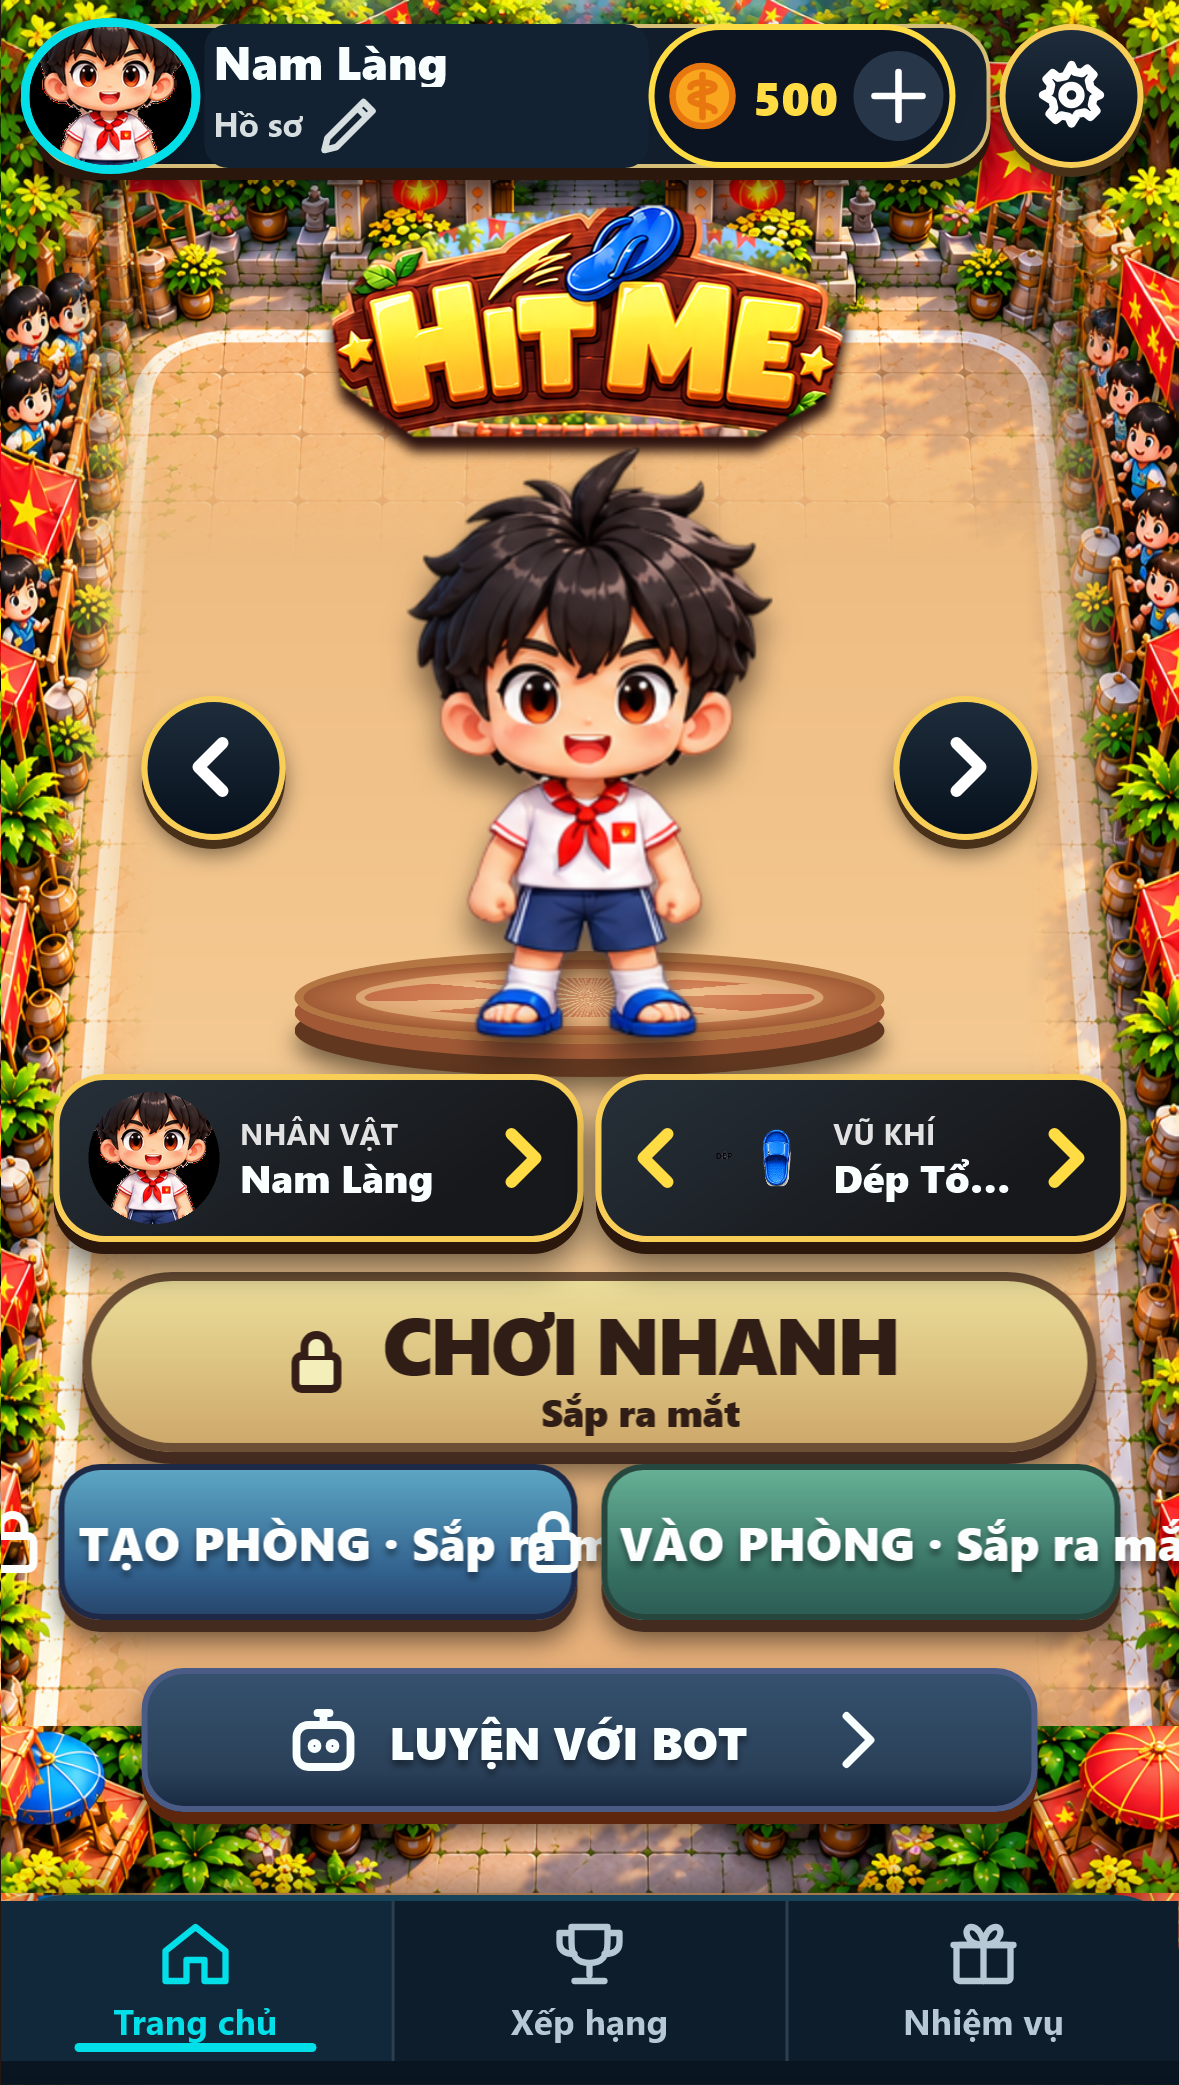
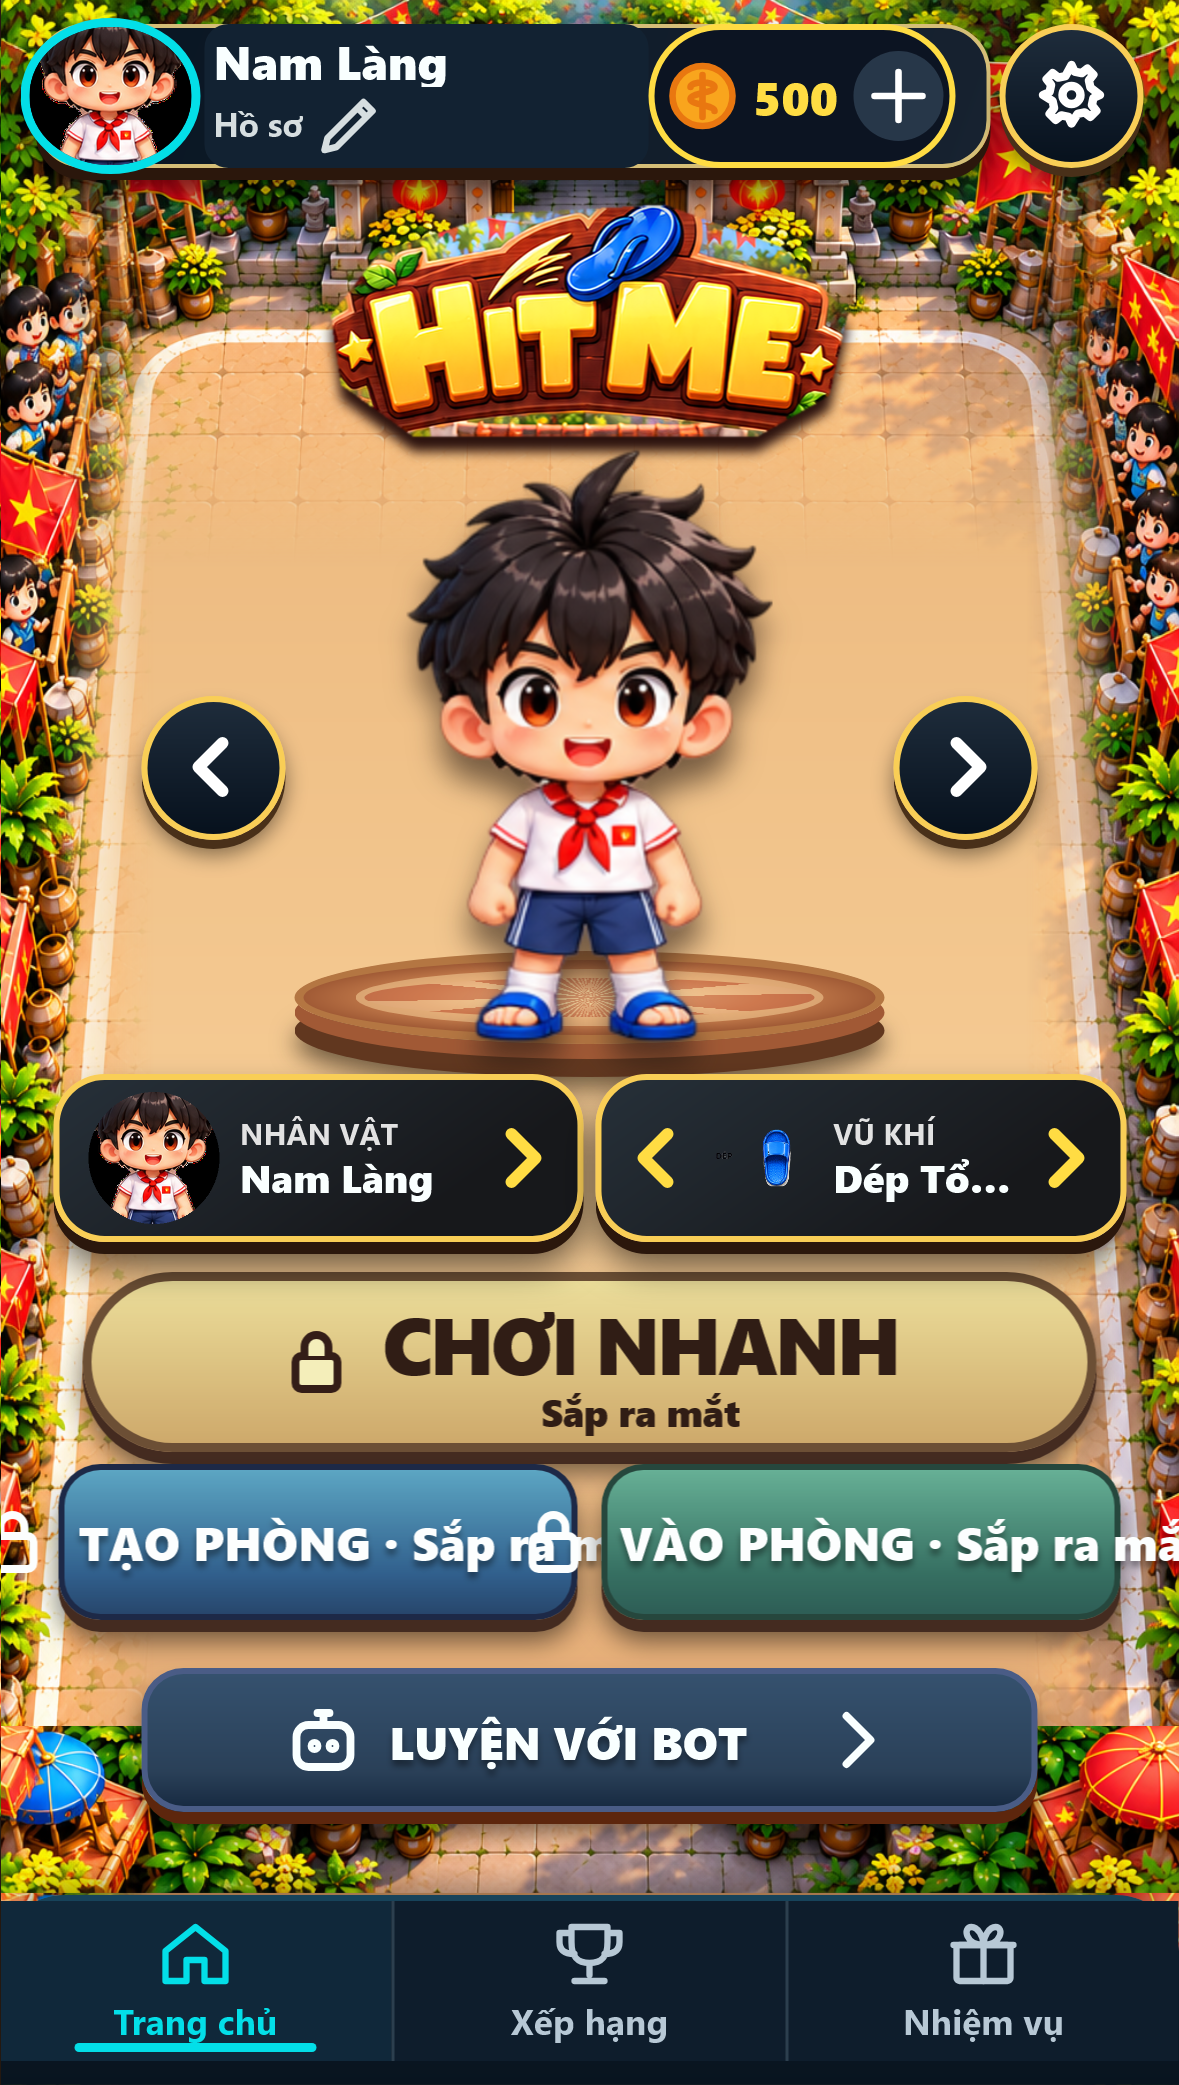
fix: keep gated Home buttons within mobile width

Changed region(s): [[0.3664, 0.2182, 0.6412, 0.4988], [0.3359, 0.2806, 0.3664, 0.3118]]

diff --git a/web-ui/app.js b/web-ui/app.js
@@ -139,8 +139,8 @@ function home() {
     <button class="selection-card character-card" data-name="character-card" data-action="character"><img src="${characterImage('head')}" alt=""><span><small>${t('character')}</small><b>${safeText(catalogTitle(character))}</b></span>${icon('chevron')}</button>
     <button class="selection-card weapon-card" data-name="weapon-card" data-action="weapon">${icon('chevron','reverse')}<img src="${safeText(currentWeapon().icon)}" alt=""><span><small>${t('weapon')}</small><b>${safeText(catalogTitle(currentWeapon()))}</b></span>${icon('chevron')}</button>
     <button class="cta quick ${onlineEnabled?'':'coming-soon'}" data-name="quick-play" data-action="${onlineEnabled?'quick':'online-locked'}">${onlineEnabled?icon('play'):icon('lock')}<span><strong>${t('quickPlay')}</strong><small>${onlineEnabled?t('quickPlayDetail'):t('comingSoon')}</small></span></button>
-    <button class="cta blue ${onlineEnabled?'':'coming-soon'}" data-name="create-room" data-action="${onlineEnabled?'create':'online-locked'}">${onlineEnabled?icon('people'):icon('lock')}<strong>${t('createRoom')} ${onlineEnabled?'':`· ${t('comingSoon')}`}</strong></button>
-    <button class="cta green ${onlineEnabled?'':'coming-soon'}" data-name="join-room" data-action="${onlineEnabled?'join':'online-locked'}">${onlineEnabled?icon('people'):icon('lock')}<strong>${t('joinRoom')} ${onlineEnabled?'':`· ${t('comingSoon')}`}</strong></button>
+    <button class="cta blue ${onlineEnabled?'':'coming-soon'}" data-name="create-room" data-action="${onlineEnabled?'create':'online-locked'}">${onlineEnabled?icon('people'):icon('lock')}<span><strong>${t('createRoom')}</strong>${onlineEnabled?'':`<small>${t('comingSoon')}</small>`}</span></button>
+    <button class="cta green ${onlineEnabled?'':'coming-soon'}" data-name="join-room" data-action="${onlineEnabled?'join':'online-locked'}">${onlineEnabled?icon('people'):icon('lock')}<span><strong>${t('joinRoom')}</strong>${onlineEnabled?'':`<small>${t('comingSoon')}</small>`}</span></button>
     <button class="cta navy practice" data-name="practice" data-action="practice">${icon('robot')}<strong>${t('practice')}</strong>${icon('chevron')}</button>
     <nav class="tabs" data-name="tabs" aria-label="Điều hướng chính">
       <button class="active" data-action="home">${icon('home')}<span>${t('home')}</span></button>

diff --git a/web-ui/dist/app.js b/web-ui/dist/app.js
@@ -139,8 +139,8 @@ function home() {
     <button class="selection-card character-card" data-name="character-card" data-action="character"><img src="${characterImage('head')}" alt=""><span><small>${t('character')}</small><b>${safeText(catalogTitle(character))}</b></span>${icon('chevron')}</button>
     <button class="selection-card weapon-card" data-name="weapon-card" data-action="weapon">${icon('chevron','reverse')}<img src="${safeText(currentWeapon().icon)}" alt=""><span><small>${t('weapon')}</small><b>${safeText(catalogTitle(currentWeapon()))}</b></span>${icon('chevron')}</button>
     <button class="cta quick ${onlineEnabled?'':'coming-soon'}" data-name="quick-play" data-action="${onlineEnabled?'quick':'online-locked'}">${onlineEnabled?icon('play'):icon('lock')}<span><strong>${t('quickPlay')}</strong><small>${onlineEnabled?t('quickPlayDetail'):t('comingSoon')}</small></span></button>
-    <button class="cta blue ${onlineEnabled?'':'coming-soon'}" data-name="create-room" data-action="${onlineEnabled?'create':'online-locked'}">${onlineEnabled?icon('people'):icon('lock')}<strong>${t('createRoom')} ${onlineEnabled?'':`· ${t('comingSoon')}`}</strong></button>
-    <button class="cta green ${onlineEnabled?'':'coming-soon'}" data-name="join-room" data-action="${onlineEnabled?'join':'online-locked'}">${onlineEnabled?icon('people'):icon('lock')}<strong>${t('joinRoom')} ${onlineEnabled?'':`· ${t('comingSoon')}`}</strong></button>
+    <button class="cta blue ${onlineEnabled?'':'coming-soon'}" data-name="create-room" data-action="${onlineEnabled?'create':'online-locked'}">${onlineEnabled?icon('people'):icon('lock')}<span><strong>${t('createRoom')}</strong>${onlineEnabled?'':`<small>${t('comingSoon')}</small>`}</span></button>
+    <button class="cta green ${onlineEnabled?'':'coming-soon'}" data-name="join-room" data-action="${onlineEnabled?'join':'online-locked'}">${onlineEnabled?icon('people'):icon('lock')}<span><strong>${t('joinRoom')}</strong>${onlineEnabled?'':`<small>${t('comingSoon')}</small>`}</span></button>
     <button class="cta navy practice" data-name="practice" data-action="practice">${icon('robot')}<strong>${t('practice')}</strong>${icon('chevron')}</button>
     <nav class="tabs" data-name="tabs" aria-label="Điều hướng chính">
       <button class="active" data-action="home">${icon('home')}<span>${t('home')}</span></button>

diff --git a/web-ui/dist/style.css b/web-ui/dist/style.css
@@ -100,6 +100,11 @@ button:not(:disabled):active{transform:translateY(4px) scale(.96);box-shadow:0 1
 #ui-root a{pointer-events:auto}
 .home .coming-soon{filter:saturate(.45)}
 .home .coming-soon small{font-weight:900}
+.home .blue,.home .green{gap:3px;padding:3px 5px;overflow:hidden}
+.home .blue>.icon,.home .green>.icon{flex:none;font-size:clamp(19px,5.5vw,25px)}
+.home .blue>span,.home .green>span{min-width:0;display:flex;flex-direction:column;align-items:center;justify-content:center;line-height:1.05}
+.home .blue strong,.home .green strong{font-size:clamp(11px,3.35vw,16px);white-space:nowrap}
+.home .blue small,.home .green small{font-size:clamp(9px,2.6vw,12px);white-space:nowrap}
 /* Only HUD and controls take pointer events; the middle of the court belongs to Unity. */
 .live-match{background:transparent;pointer-events:none;box-shadow:none}
 .live-match button,.live-match .live-tutorial,.live-match .modal-shade{pointer-events:auto}

diff --git a/web-ui/style.css b/web-ui/style.css
@@ -100,6 +100,11 @@ button:not(:disabled):active{transform:translateY(4px) scale(.96);box-shadow:0 1
 #ui-root a{pointer-events:auto}
 .home .coming-soon{filter:saturate(.45)}
 .home .coming-soon small{font-weight:900}
+.home .blue,.home .green{gap:3px;padding:3px 5px;overflow:hidden}
+.home .blue>.icon,.home .green>.icon{flex:none;font-size:clamp(19px,5.5vw,25px)}
+.home .blue>span,.home .green>span{min-width:0;display:flex;flex-direction:column;align-items:center;justify-content:center;line-height:1.05}
+.home .blue strong,.home .green strong{font-size:clamp(11px,3.35vw,16px);white-space:nowrap}
+.home .blue small,.home .green small{font-size:clamp(9px,2.6vw,12px);white-space:nowrap}
 /* Only HUD and controls take pointer events; the middle of the court belongs to Unity. */
 .live-match{background:transparent;pointer-events:none;box-shadow:none}
 .live-match button,.live-match .live-tutorial,.live-match .modal-shade{pointer-events:auto}

diff --git a/tools/blackbox/test_home_geometry.py b/tools/blackbox/test_home_geometry.py
@@ -1,0 +1,67 @@
+"""Check the real dist Home assets and button geometry at six screen sizes.
+
+Run: python tools/blackbox/test_home_geometry.py
+This uses a local static server and does not certify the deployed Unity build.
+"""
+from __future__ import annotations
+
+import json
+import threading
+from functools import partial
+from http.server import ThreadingHTTPServer
+from pathlib import Path
+
+from playwright.sync_api import sync_playwright
+
+from test_live_bridge_fixture import DIST, Handler
+from test_next_live import PROFILES
+
+OUT = DIST.parent / 'evidence' / 'home_geometry'
+
+
+def run() -> int:
+    OUT.mkdir(parents=True, exist_ok=True)
+    server = ThreadingHTTPServer(('127.0.0.1', 0), partial(Handler, directory=str(DIST)))
+    threading.Thread(target=server.serve_forever, daemon=True).start()
+    results = {}
+    try:
+        with sync_playwright() as playwright:
+            for name, (engine, width, height, dpr) in PROFILES.items():
+                browser = getattr(playwright, engine).launch(
+                    headless=True, **({'channel': 'msedge'} if engine == 'chromium' else {}))
+                context = browser.new_context(
+                    viewport={'width': width, 'height': height},
+                    device_scale_factor=dpr, is_mobile=True, has_touch=True)
+                page = context.new_page()
+                errors = []
+                page.on('pageerror', lambda error: errors.append(str(error)))
+                try:
+                    page.goto(f'http://127.0.0.1:{server.server_port}/next/?e2e=1',
+                              wait_until='networkidle', timeout=30000)
+                    page.wait_for_function("() => document.querySelector('.hero')?.naturalWidth > 0")
+                    buttons = {key: page.locator(f'.home .{key}').evaluate(
+                        'e => Math.max(0, e.scrollWidth - e.clientWidth)')
+                        for key in ('blue', 'green', 'quick')}
+                    hero = page.locator('.hero').is_visible()
+                    page.screenshot(path=str(OUT / f'{name}.png'))
+                    results[name] = {'status': 'PASS' if hero and not errors and
+                                     all(value == 0 for value in buttons.values()) else 'FAIL',
+                                     'heroLoaded': hero, 'overflowPx': buttons, 'errors': errors}
+                except Exception as exc:
+                    results[name] = {'status': 'FAIL', 'error': f'{type(exc).__name__}: {exc}'[:240]}
+                context.close()
+                browser.close()
+    finally:
+        server.shutdown()
+    (OUT / 'results.json').write_text(json.dumps(results, ensure_ascii=False, indent=2) + '\n',
+                                      encoding='utf-8')
+    passed = sum(row['status'] == 'PASS' for row in results.values())
+    print(f'Passed! {passed}/{len(results)}')
+    for name, row in results.items():
+        if row['status'] != 'PASS':
+            print(name, row)
+    return 0 if passed == len(results) else 1
+
+
+if __name__ == '__main__':
+    raise SystemExit(run())

diff --git a/tools/blackbox/test_next_live.py b/tools/blackbox/test_next_live.py
@@ -59,14 +59,20 @@ def run(url: str, output: Path, matches: int, gameplay: bool) -> int:
             try:
                 page.goto(base + '?e2e=1', wait_until='domcontentloaded', timeout=45000)
                 page.wait_for_function("() => window.__hitmeState?.build && document.querySelector('[data-screen=home]')", timeout=90000)
+                page.wait_for_function("() => document.querySelector('.hero')?.naturalWidth > 0", timeout=20000)
                 row['build'] = page.evaluate('window.__hitmeState.build')
                 row['onlineLocked'] = page.locator('[data-action="online-locked"]').count()
                 row['canvasRect'] = page.locator('#unity-canvas').bounding_box()
                 row['homeVisible'] = page.locator('[data-screen="home"]').is_visible()
+                row['heroLoaded'] = page.locator('.hero').evaluate('e => e.complete && e.naturalWidth > 0')
+                row['buttonOverflow'] = {kind: page.locator(f'.home .{kind}').evaluate(
+                    'e => Math.max(0, e.scrollWidth - e.clientWidth)') for kind in ('blue', 'green')}
                 row['checks']['HOME-01'] = row['homeVisible']
+                row['checks']['HOME-HERO'] = row['heroLoaded']
+                row['checks']['BTN-LABEL'] = all(value == 0 for value in row['buttonOverflow'].values())
                 row['checks']['BTN-09'] = row['onlineLocked'] == 3
                 row['checks']['VIEW-01'] = bool(row['canvasRect'] and row['canvasRect']['width'] >= width - 2)
-                row['status'] = 'PASS' if synced and row['homeVisible'] and row['onlineLocked'] == 3 and not errors else 'FAIL'
+                row['status'] = 'PASS' if synced and all(row['checks'].values()) and not errors else 'FAIL'
                 page.screenshot(path=str(output / f'{name}_home.png'))
                 if gameplay and synced and row['status'] == 'PASS' and name == 'iphone15_safari':
                     page.locator('[data-action="character"]').click()
@@ -135,7 +141,7 @@ def run(url: str, output: Path, matches: int, gameplay: bool) -> int:
                 page.screenshot(path=str(output / f'{name}_failure.png'))
             results['profiles'][name] = row
             context.close(); browser.close()
-    required = ('HOME-01','BTN-09','VIEW-01','SEL-LOCK','HUD-01','F1-MATCHES',
+    required = ('HOME-01','HOME-HERO','BTN-LABEL','BTN-09','VIEW-01','SEL-LOCK','HUD-01','F1-MATCHES',
                 'F2-ROSTER','F7-TUTORIAL','F7-REOPEN','SET-PAUSE','SET-RESUME',
                 'SET-VOLUME','EMO-OPEN','EMO-SEND','ARENA-TOUCH')
     observed = results['profiles'].get('iphone15_safari', {}).get('checks', {})

diff --git a/tools/blackbox/test_live_bridge_fixture.py b/tools/blackbox/test_live_bridge_fixture.py
@@ -49,6 +49,11 @@ def run() -> int:
                 if not ok: checks.append(label)
             check(page.locator('[data-screen="home"]').is_visible(), 'home visible')
             check(page.locator('[data-action="online-locked"]').count() == 3, 'online gated')
+            page.wait_for_function("() => document.querySelector('.hero')?.naturalWidth > 0")
+            check(page.locator('.hero').is_visible(), 'hero image visible')
+            for button in ('.home .blue', '.home .green'):
+                check(page.locator(button).evaluate('e => e.scrollWidth <= e.clientWidth'),
+                      f'{button} label fits')
             page.evaluate("hitmeUi.onUnity({type:'ready',version:'1.2',roster:[],weapons:[]})")
             check(any(x['m']=='SetLayout' for x in page.evaluate('window.__sent')), 'SetLayout sent')
             page.locator('[data-action="practice"]').click()

diff --git a/MD/PROTOCOL_MISMATCH.md b/MD/PROTOCOL_MISMATCH.md
@@ -7,3 +7,9 @@
 3. **Trung bình – bố cục:** `SetLayout` gửi `safeTop/safeBottom`; Unity hiện chỉ dùng `top/bottom`, và `EmitLayoutEvent` tính theo khung cố định 393×695. Kiểm iPhone notch, Safari thanh địa chỉ co, Android 20:9, xoay ngang.
 4. **Trung bình – cài đặt:** Unity `SetSettings` chỉ xử lý `reducedMotion`; mức âm thanh do Web xử lý. Cần xác nhận Unity AudioSource không phát chồng ở bản Web.
 5. **Thấp – sự kiện:** `event` chưa có tọa độ khi đã công bố, Web chỉ hiện toast và âm. Nếu muốn VFX web bám nhân vật, phát tọa độ sau công bố.
+
+## Bản `/next/` đang phát hành, kiểm ngày 05-11-2026
+
+- `app.js` tại Vercel có SHA-256 bắt đầu `84697d77e2663c89`; `web-ui/dist/app.js` ở nhánh `prep/codex` mới hơn. Kiểm thử gameplay hybrid bị chặn bằng `deploymentSynced=false`, không tính là đạt.
+- Ảnh Home đầu tiên bị thiếu nhân vật do chụp trước khi `.hero` tải xong. Kiểm lại sau khi `naturalWidth > 0` thấy nhân vật; đây là lỗi của công cụ chụp.
+- Bản đang phát hành thực sự tràn nhãn TẠO PHÒNG/VÀO PHÒNG 29–30 px trên iPhone 393×695. Bản web mới đã tách nhãn và trạng thái “Sắp ra mắt” thành hai dòng; `test_home_geometry.py` kiểm 6 kích thước. AG cần lấy `web-ui/dist` từ `prep/codex` mới nhất, deploy lại `/next/`, rồi Codex chạy lại kiểm thử hybrid có gameplay thật.
